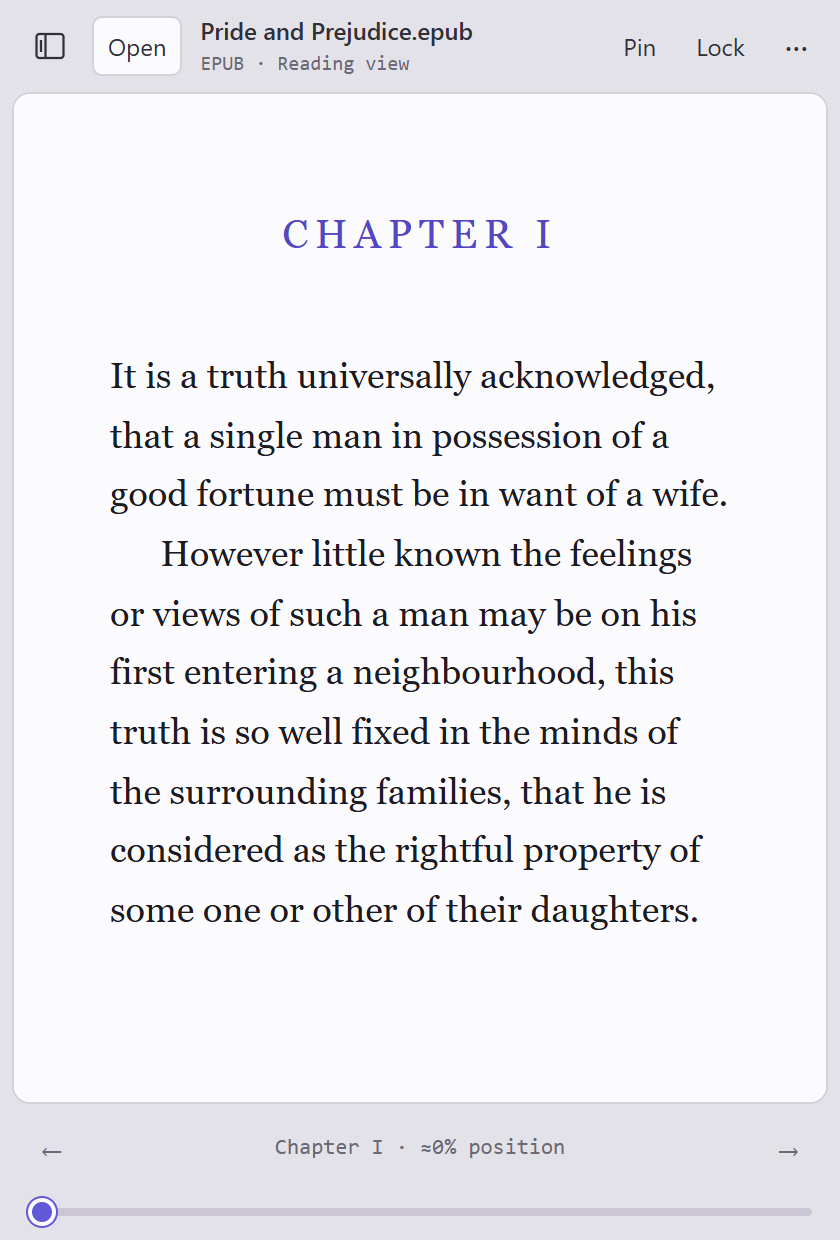
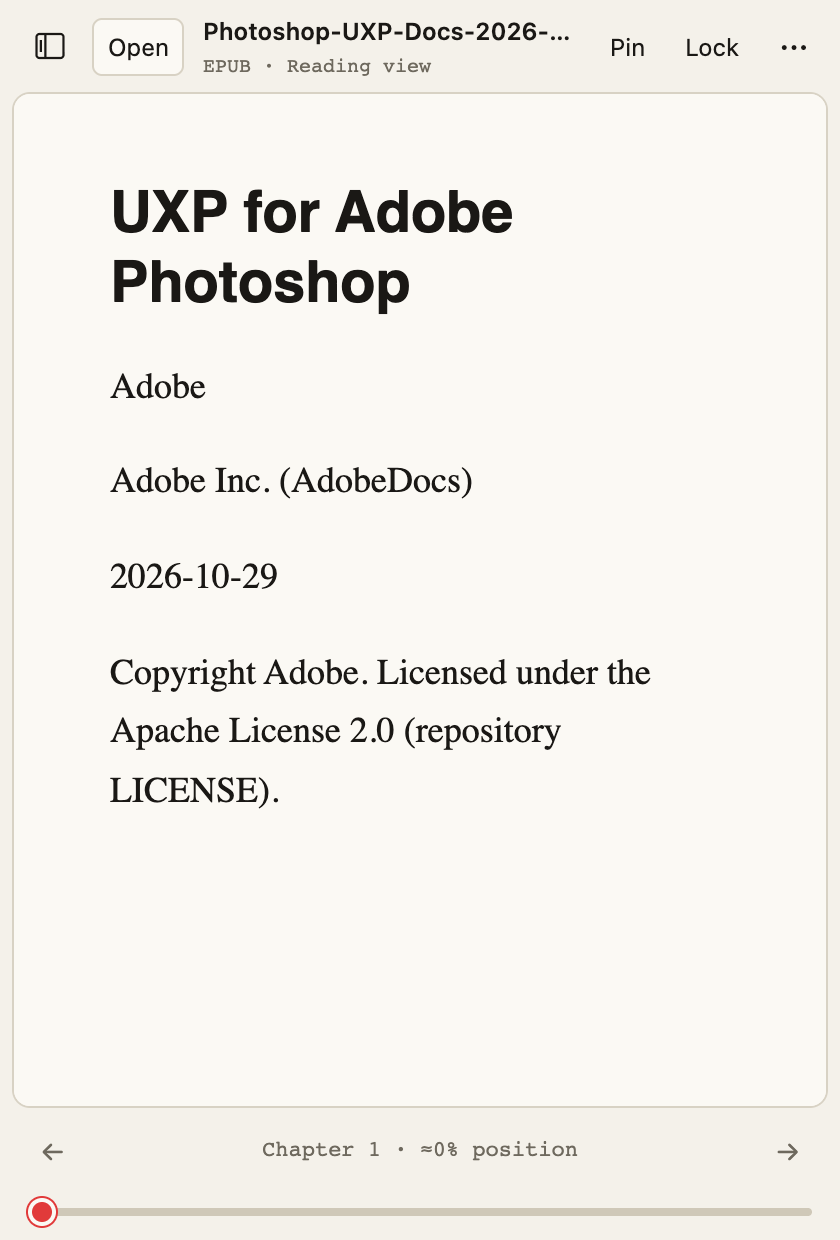
Docs: reshoot media against the Brief theme
Every screenshot in docs/media is regenerated from the rebranded UI, so the
media finally shows the product as it now looks: warm paper chrome, true ink
and the single acid accent.

Sources are freely redistributable documents:
  - Photo-engraving (public domain, Internet Archive) for the PDF views
  - Adobe's Photoshop UXP guide (Apache-2.0) for the reflowable EPUB view
In-copyright scans from the reference library are deliberately not committed.

- Captions and credits updated to match what the images actually show
  (two-page view is pages 48-49; the hand tool shot is at 120%)
- New scripts/reshoot-media.mjs regenerates the whole set from two documents
  passed on the command line, with the theme pinned to Brief and focus blurred

Audited before commit: no credentials, tokens or private paths in the diff,
no metadata in any image.

diff --git a/README.md b/README.md
@@ -1,7 +1,7 @@
 <p align="center">
   <picture>
     <source media="(prefers-color-scheme: dark)" srcset="docs/media/hero-dark.png">
-    <img src="docs/media/hero-light.png" alt="Hold My Brief pinned beside other work, showing the first chapter of Pride and Prejudice in a small reading window" width="880">
+    <img src="docs/media/hero-light.png" alt="Hold My Brief open beside other work, showing a page of a 19th century print manual in a small reading window" width="880">
   </picture>
 </p>
 
@@ -92,15 +92,15 @@ computer.
 <p align="center">
   <picture>
     <source media="(prefers-color-scheme: dark)" srcset="docs/media/spread-dark.png">
-    <img src="docs/media/spread-light.png" alt="Pages 2 and 3 of Alice's Adventures in Wonderland shown side by side as an open book" width="880">
+    <img src="docs/media/spread-light.png" alt="Pages 48 and 49 of the print manual shown side by side as an open book" width="880">
   </picture>
   <br><sub><b>Two-page view</b> lays out a PDF like an open book</sub>
 </p>
 
 <table>
   <tr>
-    <td align="center" width="33%"><img src="docs/media/reading-epub.png" alt="Reading an EPUB book in the compact window"><br><sub><b>Reading a book</b> at the default 420 × 620 size</sub></td>
-    <td align="center" width="33%"><img src="docs/media/hand-tool.png" alt="A PDF page zoomed to 140% with the hand tool switched on in the floating zoom controls"><br><sub><b>Zoom in</b>, then drag the page with the hand tool</sub></td>
+    <td align="center" width="33%"><img src="docs/media/reading-epub.png" alt="Reading an EPUB guide in the compact window"><br><sub><b>Reading a book</b> at the default 420 × 620 size</sub></td>
+    <td align="center" width="33%"><img src="docs/media/hand-tool.png" alt="A PDF page zoomed to 120% with the hand tool switched on in the floating zoom controls"><br><sub><b>Zoom in</b>, then drag the page with the hand tool</sub></td>
     <td align="center" width="33%"><img src="docs/media/appearance.png" alt="The Appearance panel with theme cards"><br><sub><b>Appearance</b>: hover to preview, click to keep</sub></td>
   </tr>
 </table>
@@ -240,8 +240,11 @@ picker that previews on hover shaped Hold My Brief's Appearance panel. The Graph
 the default palette in [Tern's published theme tokens](https://docs.stencil.so/tern/styles/variables.html).
 Thank you to the Stencil team.
 
-Sample text in the screenshots is from public-domain editions of *Pride and Prejudice* and
-*Alice's Adventures in Wonderland* via Project Gutenberg.
+The screenshots read two freely redistributable documents: *Photo-engraving*, a public-domain
+print manual scanned by the [Internet Archive](https://archive.org/details/photoengravingp00wilkgoog),
+and Adobe's Photoshop UXP guide, published under the Apache License 2.0. No in-copyright scans are
+committed to this repository. `scripts/reshoot-media.mjs` regenerates the set from documents you
+supply.
 
 ## License
 
